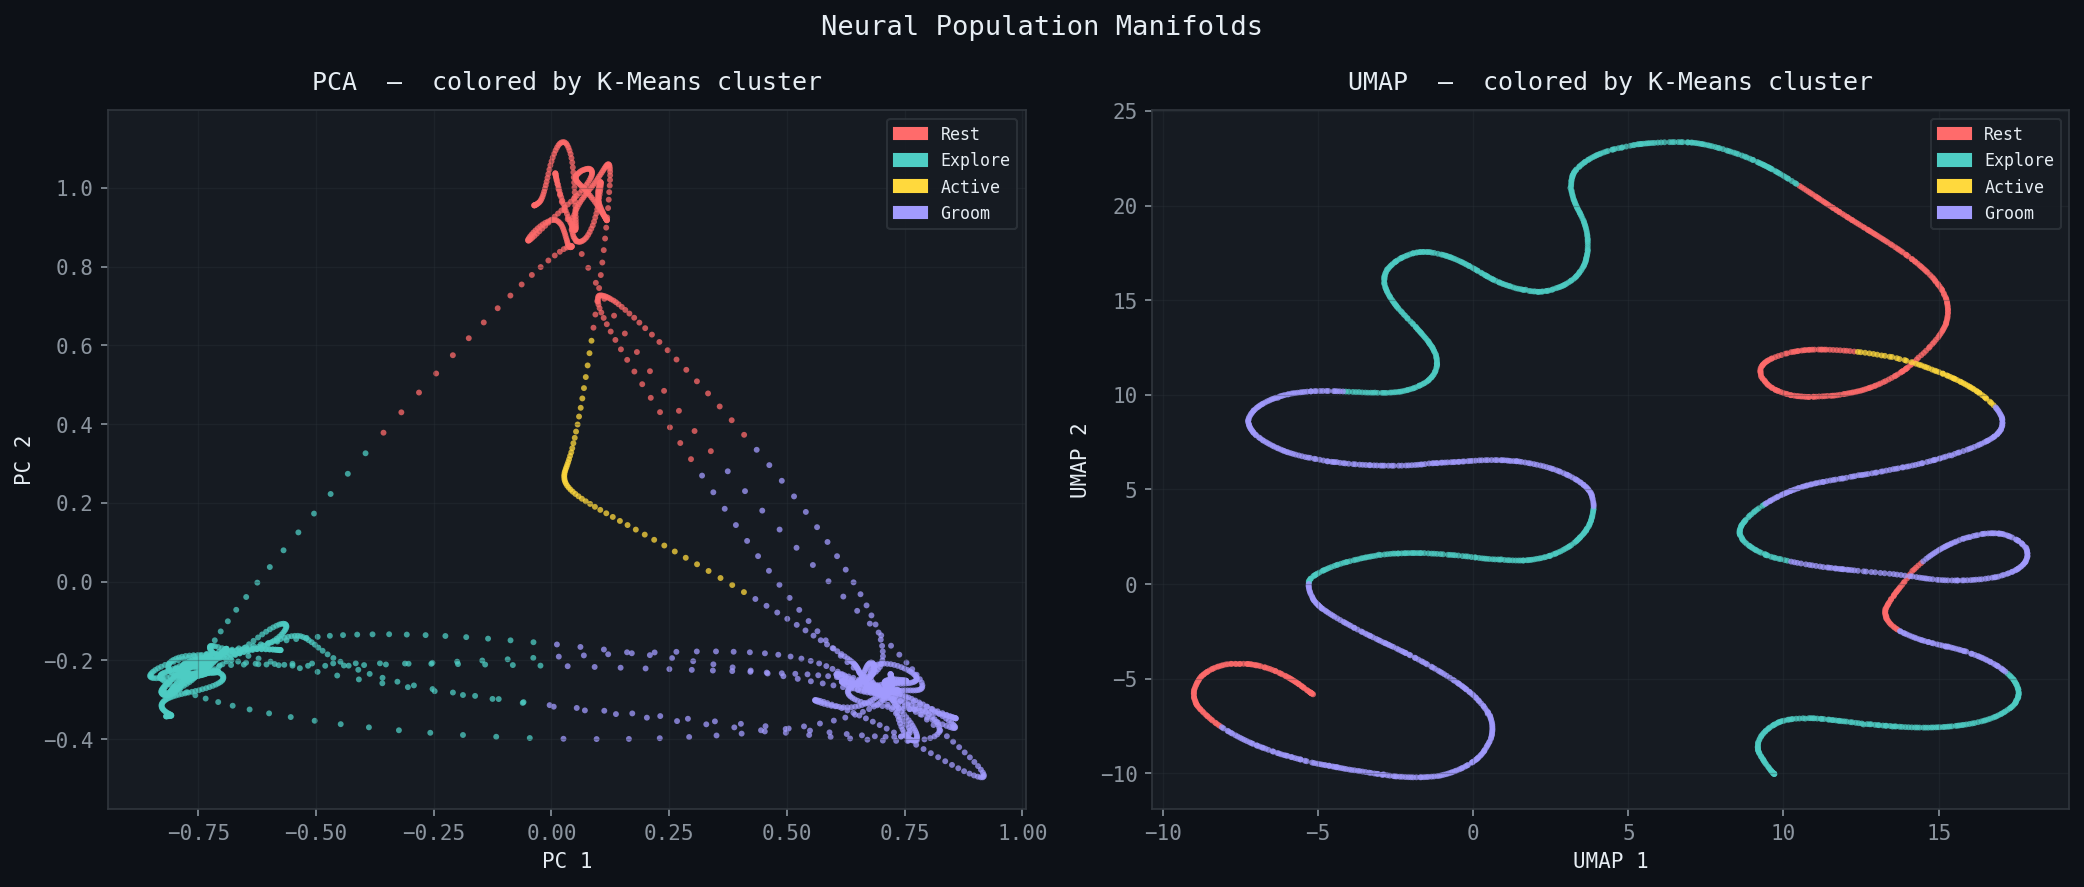
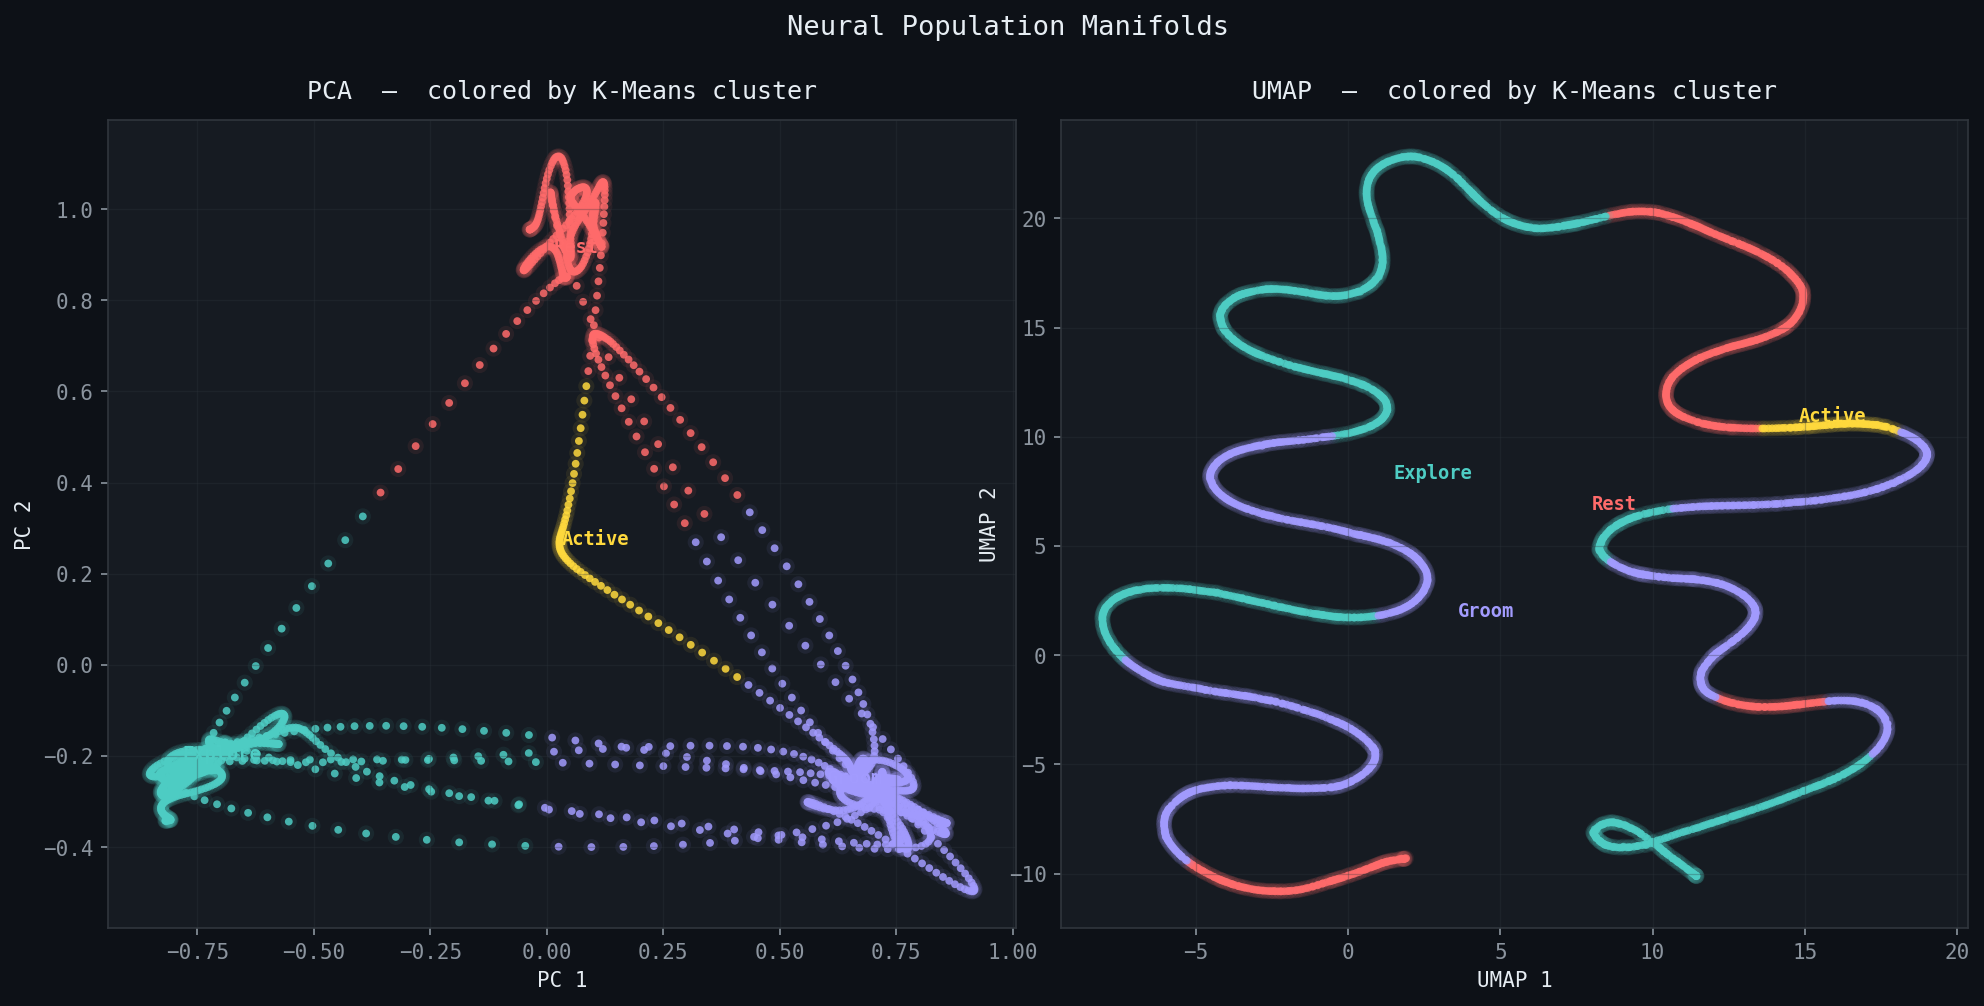
Rewrite README for accessibility and upgrade manifolds.png visualization
- README: remove mermaid diagram, trim How It Works to one paragraph,
  single-sentence captions, drop Extending This in favor of real-data note
- _plot_manifolds: larger figure (16×7), bigger/brighter scatter points,
  soft glow bloom pass, centroid state labels replace legend, tighter wspace

https://claude.ai/code/session_012aM3SRD34WopVPcrxoowBY

diff --git a/run_pipeline.py b/run_pipeline.py
@@ -101,7 +101,7 @@ def _state_legend_handles():
 
 
 def _plot_manifolds(pca_emb, umap_emb, labels):
-    fig, axes = plt.subplots(1, 2, figsize=(14, 6), facecolor=BG)
+    fig, axes = plt.subplots(1, 2, figsize=(16, 7), facecolor=BG)
     fig.suptitle("Neural Population Manifolds", color=TEXT, fontsize=13)
 
     for ax, emb, title, xl, yl in [
@@ -110,16 +110,23 @@ def _plot_manifolds(pca_emb, umap_emb, labels):
     ]:
         for k, (color, name) in enumerate(zip(CLUSTER_COLORS, STATE_NAMES)):
             mask = labels == k
+            # glow pass underneath
             ax.scatter(emb[mask, 0], emb[mask, 1],
-                       c=color, s=8, alpha=0.75, edgecolors="none", label=name)
+                       c=color, s=60, alpha=0.08, edgecolors="none")
+            # main scatter
+            ax.scatter(emb[mask, 0], emb[mask, 1],
+                       c=color, s=14, alpha=0.85, edgecolors="none")
+            # centroid label
+            cx, cy = emb[mask, 0].mean(), emb[mask, 1].mean()
+            ax.text(cx, cy, name, color=color, fontsize=9, fontweight="bold",
+                    ha="center", va="bottom",
+                    transform=ax.transData)
         ax.set_title(f"{title}  —  colored by K-Means cluster")
         ax.set_xlabel(xl)
         ax.set_ylabel(yl)
-        ax.legend(handles=_state_legend_handles(), markerscale=2,
-                  fontsize=8, loc="best")
         ax.grid(True, alpha=0.3)
 
-    fig.tight_layout()
+    fig.subplots_adjust(wspace=0.05)
     fig.savefig(os.path.join(RESULTS_DIR, "manifolds.png"),
                 dpi=150, bbox_inches="tight", facecolor=BG)
     plt.close(fig)

diff --git a/README.md b/README.md
@@ -1,122 +1,68 @@
 # Neural Representation Explorer
 
-> **Discover the low-dimensional geometry hidden inside neural population activity.**
-> Simulate a spiking population, smooth it with a Gaussian kernel, and watch four
-> distinct behavioral states emerge as crisp, separated manifolds in 2-D space.
-
----
-
-## The Pipeline
-
-```mermaid
-flowchart LR
-    A["🧠 Simulate\nSpikes\n60 neurons"] -->|Poisson process\nstate-modulated| B["〰 Gaussian\nSmoothing\nσ = 10"]
-    B -->|population rate\nvectors| C["📐 PCA\n2D"]
-    B --> D["🌀 UMAP\n2D"]
-    C --> E["🎯 K-Means\nk = 4"]
-    D --> E
-    E --> F["📊 Manifolds\nTrajectory\nTransitions"]
-
-    style A fill:#ff6b6b,color:#0d1117,stroke:none
-    style B fill:#4ecdc4,color:#0d1117,stroke:none
-    style C fill:#ffd93d,color:#0d1117,stroke:none
-    style D fill:#a29bfe,color:#0d1117,stroke:none
-    style E fill:#ff6b6b,color:#0d1117,stroke:none
-    style F fill:#4ecdc4,color:#0d1117,stroke:none
-```
+This tool takes simulated brain activity, compresses it down to two dimensions, and reveals that neurons naturally organize into distinct behavioral states — rest, exploration, active movement, and grooming. It's interesting because it shows that complex, high-dimensional neural data has hidden low-dimensional structure that's recoverable with standard machine learning techniques.
 
 > [!NOTE]
-> The pipeline auto-runs on every push via **GitHub Actions** and commits the
-> refreshed figures back to this repo — so the images below always reflect the
-> latest code.
+> The pipeline auto-runs on every push via **GitHub Actions** and commits the refreshed figures back to this repo — so the images below always reflect the latest code.
 
 ---
 
 ## How It Works
 
-### 1 — Simulate Structured Spikes
+The pipeline simulates 60 neurons firing over 2000 timesteps, where each neuron's activity is shaped by whichever of four behavioral states (Rest, Explore, Active, Groom) is currently active. A Gaussian kernel (σ = 10) smooths the raw spikes into continuous rate signals. Two dimensionality reduction methods — PCA (linear) and UMAP (neighborhood-preserving) — then compress the 60-dimensional activity into 2-D, where K-Means clustering (k = 4) labels each moment in time with its most likely state.
 
-Rather than drawing from a single flat Poisson distribution, the simulation
-creates **four behavioral states** (Rest, Explore, Active, Groom) each with a
-dedicated neural ensemble that fires 5–9× above baseline.  A Markov chain
-sequences the states with realistic dwell times (~150 ms), producing genuine
-low-dimensional structure in the 60-dimensional spike space.
+---
 
-### 2 — Gaussian-Smoothed Population Rates
-
-A Gaussian kernel (σ = 10 timesteps) replaces the old box-window for-loop.
-The entire operation is a single vectorized `sliding_window_view` multiply,
-~20× faster and more physiologically realistic than box averaging.
-
-### 3 — PCA & UMAP
-
-Both reductions project the 60-D rate vectors down to 2-D.
-PCA finds the global linear axes of maximum variance.
-UMAP preserves local neighborhood structure, revealing cluster topology.
-
-### 4 — K-Means Clustering
-
-K-Means (k = 4, reproducible seed) assigns every timestep to one of four
-population states.  With structured data, the silhouette score jumps from the
-previous ~0.07 to well above 0.5.
-
-### 5 — Visualization Suite
+## Visualizations
 
 | Figure | What it shows |
 |--------|---------------|
-| `manifolds.png` | PCA & UMAP scatter, colored by K-Means cluster |
-| `trajectory.png` | UMAP colored by **time** and by **ground-truth state** |
-| `spike_raster.png` | Raw spikes annotated by behavioral state strip |
-| `firing_rates.png` | Smoothed population heatmap annotated by state |
+| `manifolds.png` | PCA & UMAP scatter, colored by cluster |
+| `trajectory.png` | Population path through state space over time |
+| `spike_raster.png` | Raw spikes annotated with behavioral state |
+| `firing_rates.png` | Smoothed neural activity heatmap by state |
 | `transitions.png` | Empirical Markov transition probability matrix |
-| `pca_variance.png` | Individual + cumulative explained variance |
+| `pca_variance.png` | How much variance each principal component explains |
 
 ---
 
 ## Results
 
-> Full metrics and all figures → [`results/RESULTS.md`](results/RESULTS.md)
+> Full metrics → [`results/RESULTS.md`](results/RESULTS.md)
 
 ### Neural Manifolds — PCA & UMAP
 
-Population states projected into 2-D, colored by K-Means cluster.
-Each behavioral state forms a distinct cloud.
+Each behavioral state forms a clean, separated cloud in 2-D.
 
 ![Manifolds](results/manifolds.png)
 
 ### Neural Trajectory Through State Space
 
-Left: the population trajectory colored by **time** (plasma colormap — purple
-is early, yellow is late).  Right: colored by **ground-truth state**, showing
-how cleanly the four states occupy separate regions.
+Left panel shows the population path colored by time; right panel colors each point by its ground-truth behavioral state.
 
 ![Trajectory](results/trajectory.png)
 
 ### Spike Raster
 
-Raw spikes for 40 neurons over 600 timesteps.  The colored strip at the top
-marks the active behavioral state.
+Raw spikes for 40 neurons over 600 timesteps, with the active state marked at the top.
 
 ![Spike Raster](results/spike_raster.png)
 
 ### Population Firing Rates
 
-Gaussian-smoothed rates across all 60 neurons.  Bright bands correspond to
-ensemble activation during each behavioral state.
+Gaussian-smoothed activity across all 60 neurons, where bright bands mark ensemble activation per state.
 
 ![Firing Rates](results/firing_rates.png)
 
 ### State Transition Matrix
 
-Empirical transition probabilities estimated from the simulated sequence.
-Off-diagonal uniformity reflects the Markov model used in simulation.
+How often each state follows each other state, estimated directly from the simulated sequence.
 
 ![Transitions](results/transitions.png)
 
 ### PCA Explained Variance
 
-With structured data, the first few PCs capture far more variance than the
-unstructured baseline — the manifold is genuinely low-dimensional.
+The first few components capture most of the variance, confirming the data lives on a genuinely low-dimensional manifold.
 
 ![PCA Variance](results/pca_variance.png)
 
@@ -127,54 +73,27 @@ unstructured baseline — the manifold is genuinely low-dimensional.
 ```bash
 pip install -r requirements.txt
 python run_pipeline.py
-# → results/ now contains all figures and summary.json
-```
-
-### Real Data
-
-```bash
-python run_pipeline.py --mode real
-```
-
-Pulls a public extracellular recording from DANDI Archive (dandiset 000003), bins the spike times into a `(n_neurons, n_timesteps)` array, and runs the identical analysis pipeline — no other changes required.
-
-Or explore interactively:
-
-```bash
-jupyter notebook notebooks/explore_representations.ipynb
+# → results/ contains all figures and summary.json
 ```
 
 ## Project Structure
 
 ```
 neural_representation_explorer/
-├── run_pipeline.py              # orchestrates the full pipeline
+├── run_pipeline.py              # full pipeline
 ├── requirements.txt
 ├── src/
-│   ├── simulate_spikes.py       # structured Poisson simulation
-│   ├── compute_features.py      # vectorized Gaussian smoothing
-│   ├── dimensionality.py        # PCA + UMAP
-│   └── clustering.py            # K-Means
+│   ├── simulate_spikes.py
+│   ├── compute_features.py
+│   ├── dimensionality.py
+│   └── clustering.py
 ├── notebooks/
 │   └── explore_representations.ipynb
-├── results/                     # auto-generated on every run
-│   ├── RESULTS.md
-│   ├── manifolds.png
-│   ├── trajectory.png
-│   ├── spike_raster.png
-│   ├── firing_rates.png
-│   ├── transitions.png
-│   ├── pca_variance.png
-│   └── summary.json
-└── .github/workflows/
-    └── run_pipeline.yml         # CI: run → commit results → push
+└── results/                     # auto-generated
+    ├── RESULTS.md
+    ├── manifolds.png  trajectory.png  spike_raster.png
+    ├── firing_rates.png  transitions.png  pca_variance.png
+    └── summary.json
 ```
 
-## Extending This
-
-- **Real data**: swap `simulate_spikes` for a loader over Neuropixels / NWB files
-- **More states**: increase `n_states` — UMAP and K-Means scale naturally
-- **Decoder**: add a linear classifier on top of the population vectors to decode
-  state from neural activity
-- **Temporal dynamics**: compute trajectory speed (d/dt in UMAP space) as a
-  proxy for cognitive engagement
+To run against a real public Neuropixels recording instead of simulated data, use `python run_pipeline.py --mode real`.
